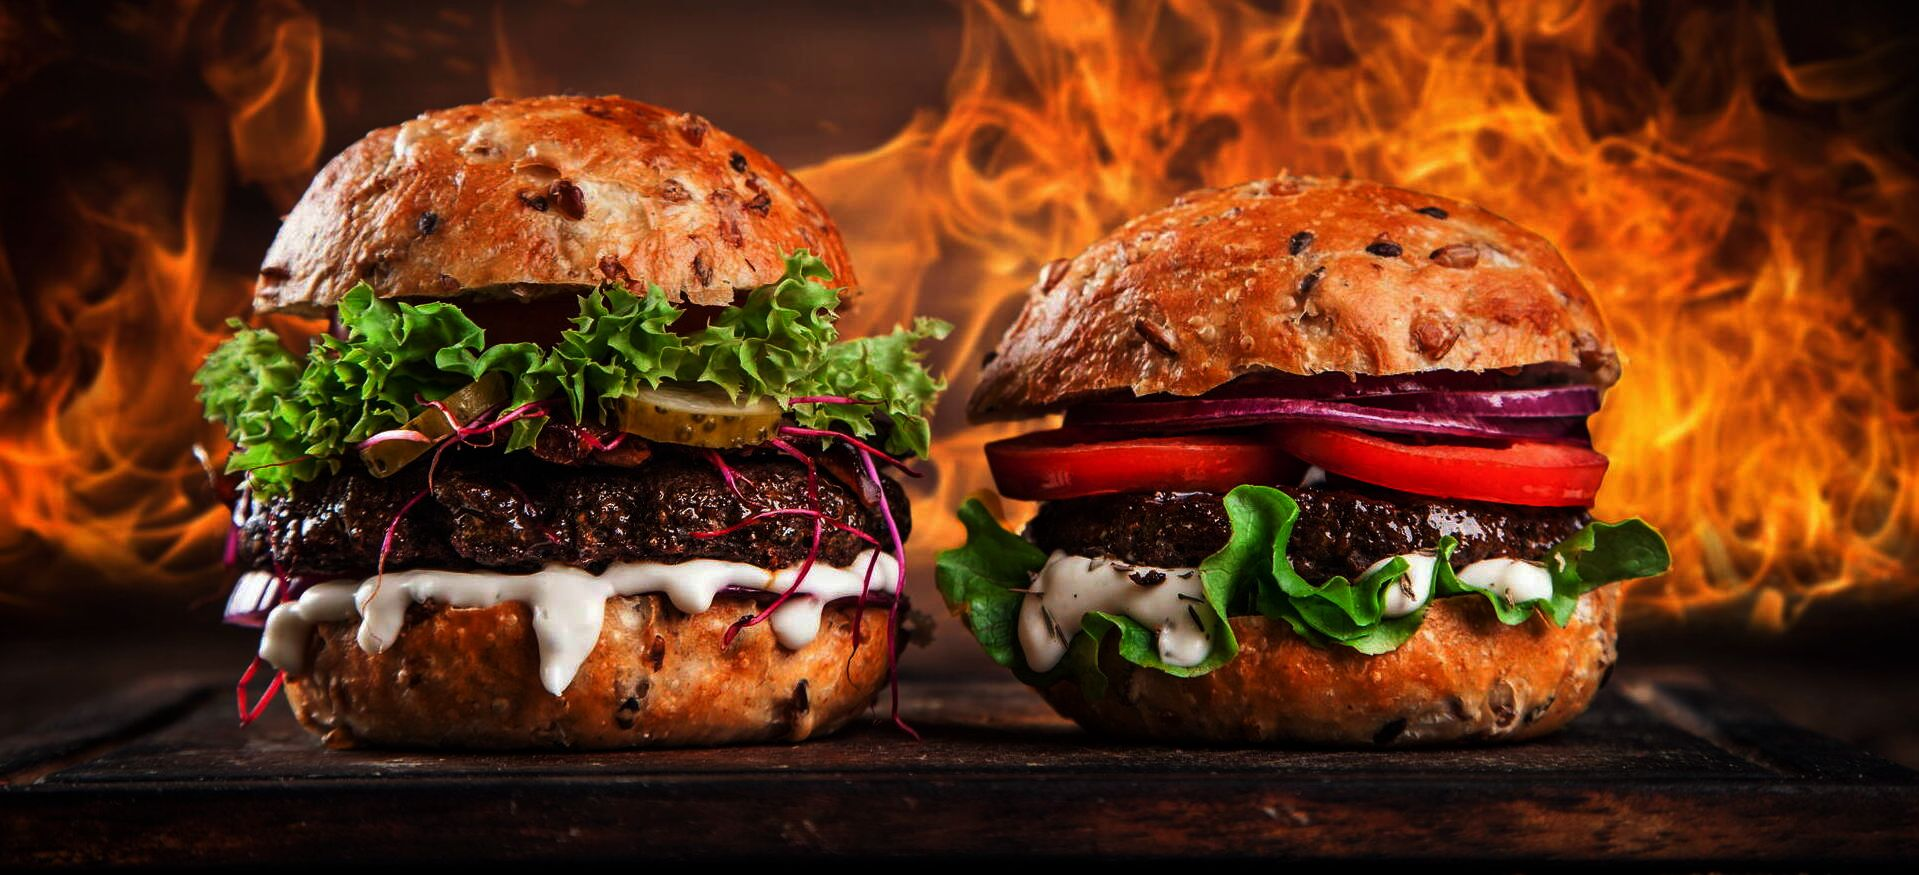
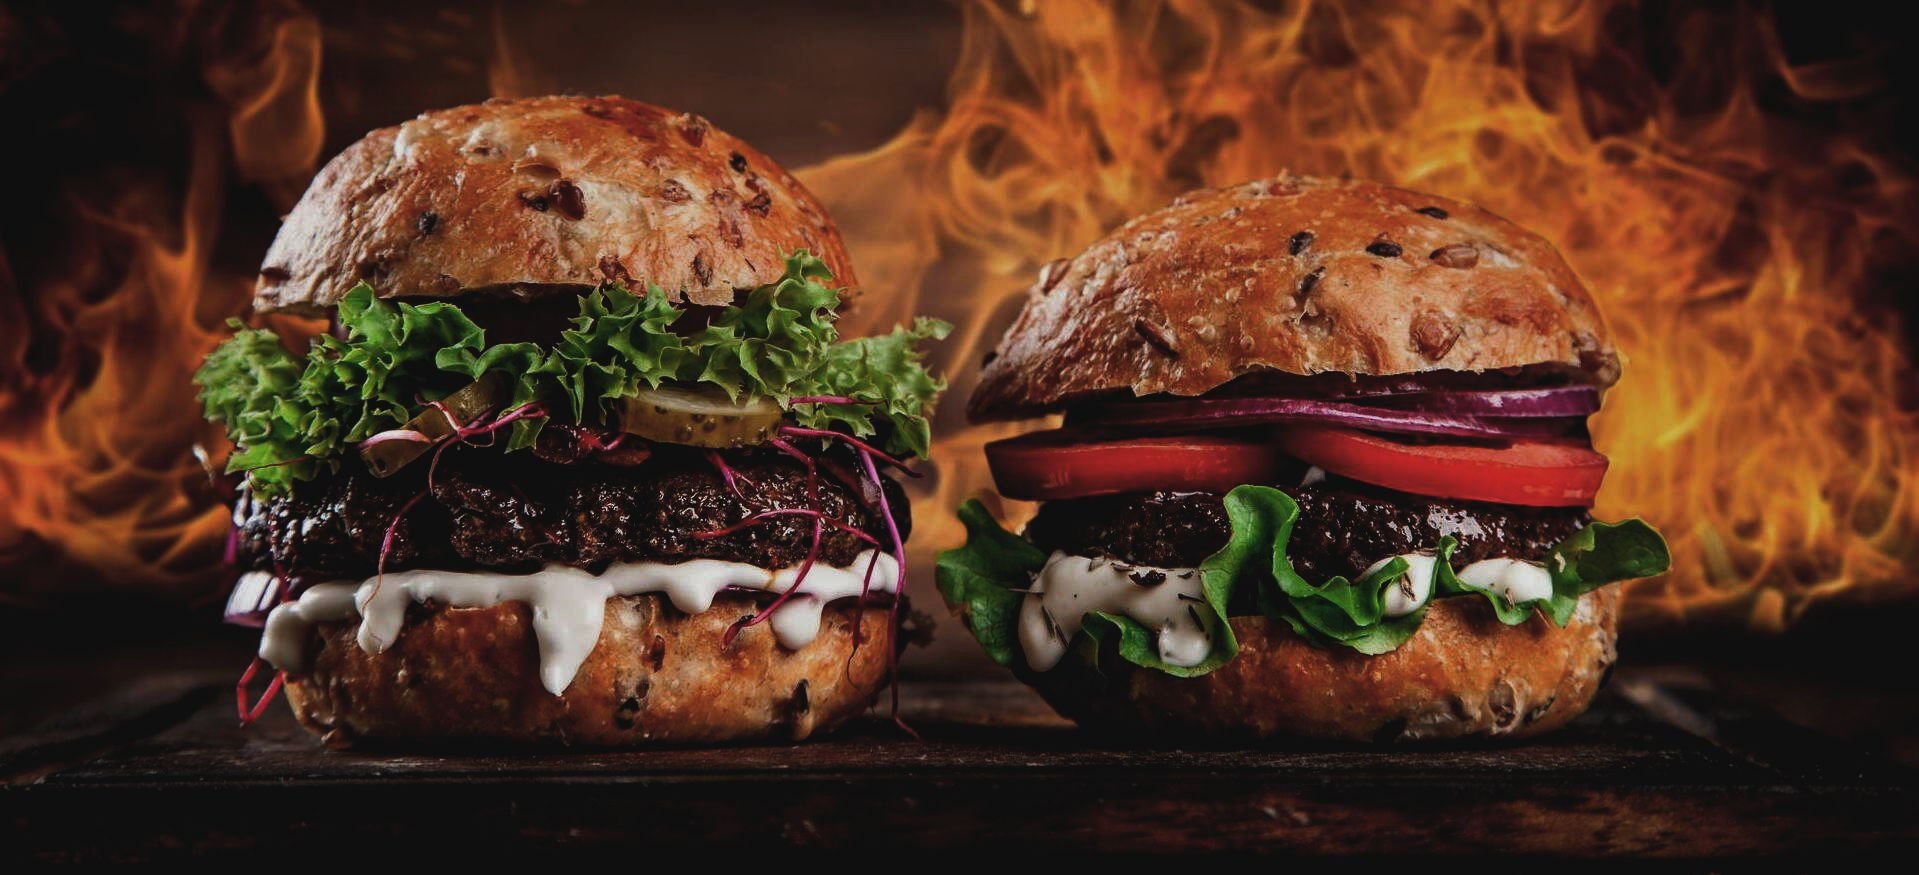
Modifique imagen hamburguesas

diff --git a/style.css b/style.css
@@ -262,7 +262,7 @@ main {
 .nuestras_hamburguesas {
   width: 100%;
   height: 25rem;
-  background-image: url(./assets/images/hamburguesa1.jpg);
+  background-image: url(./assets/images/wallpaperbetter.jpg);
   background-attachment: fixed;
   background-position: center;
   background-size: cover;
